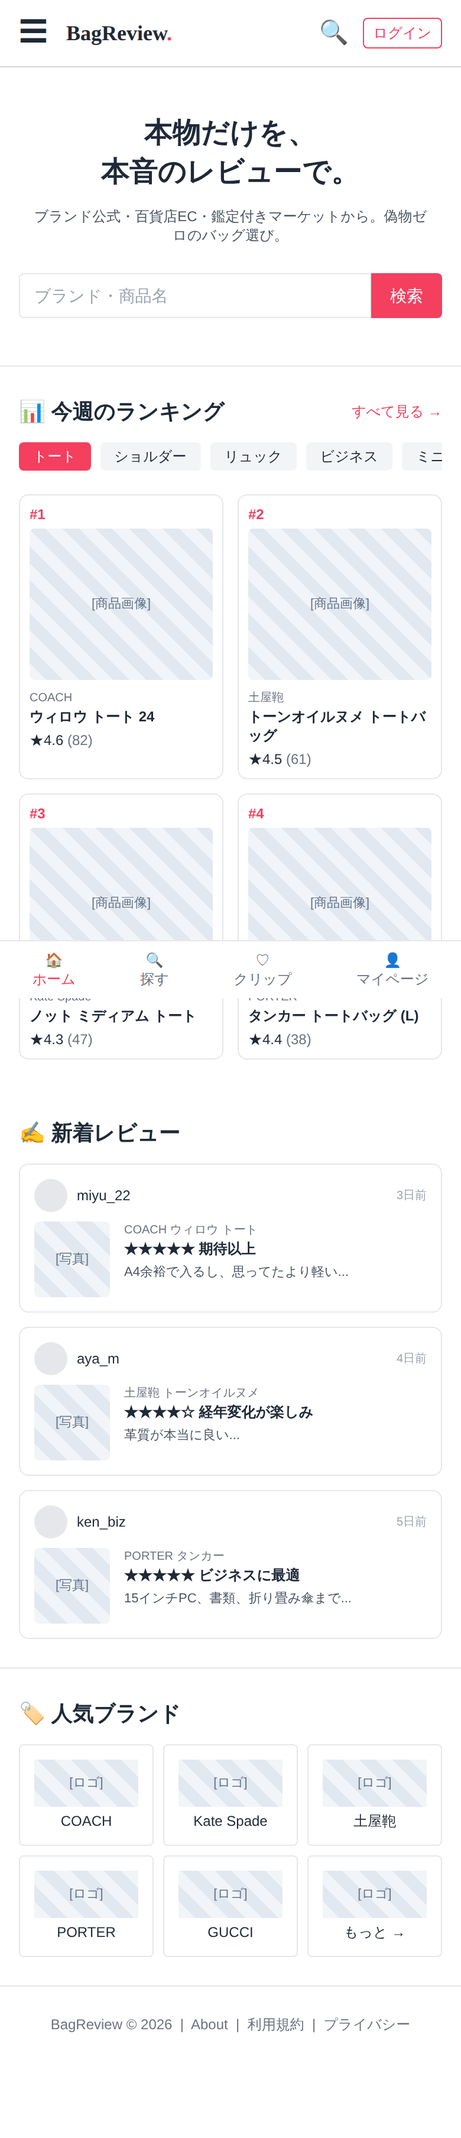
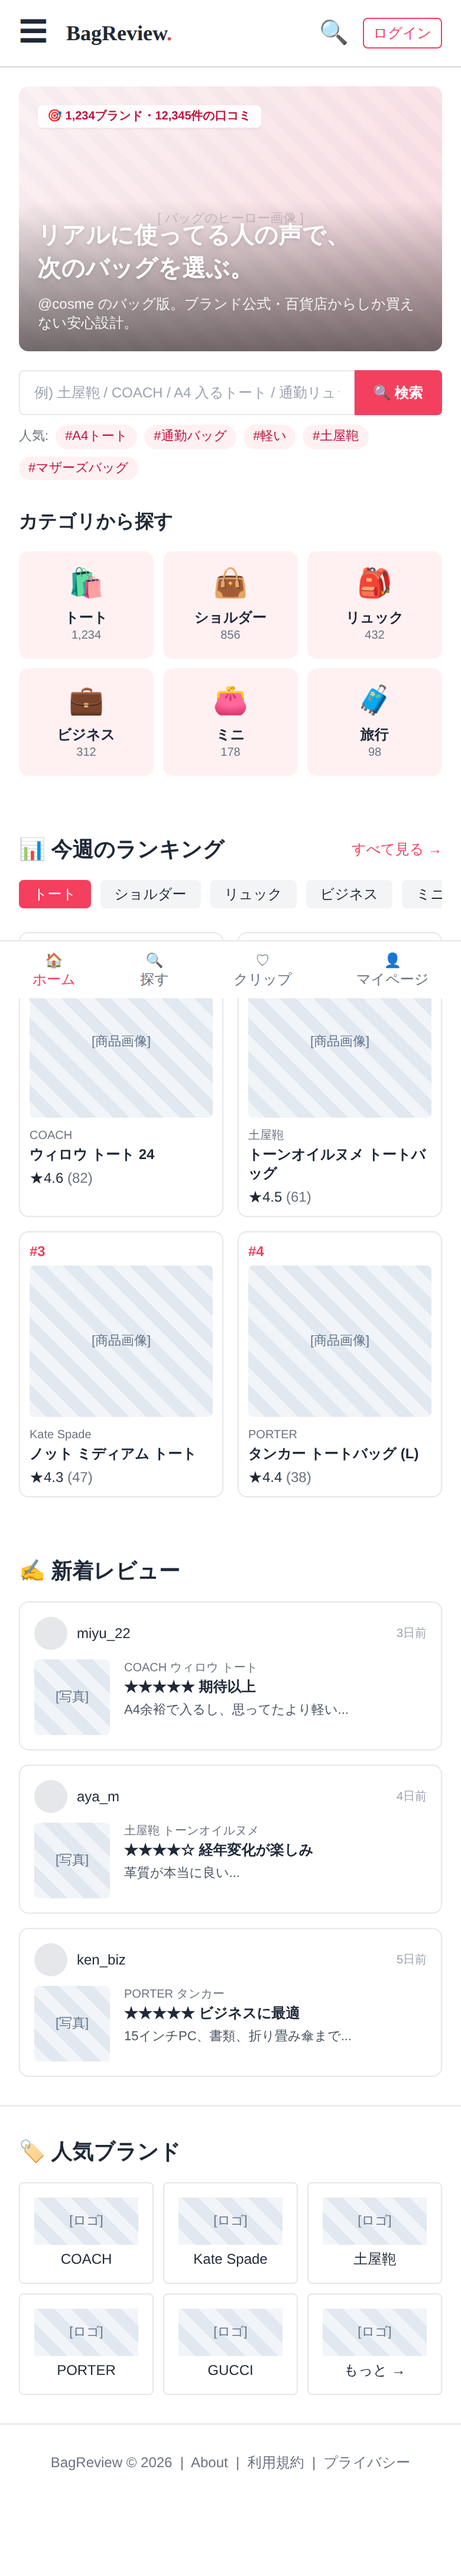
docs(wireframes): redesign TOP hero for clarity and approachability
- Replace marketing copy with social-proof number badge
- Hero banner uses gradient + placeholder for product imagery
- Search input now shows concrete examples as placeholder
- Add popular hashtag chips below search
- Add category tile grid with icons and counts as primary navigation

https://claude.ai/code/session_01DgfmKdj2TsGSuRHMTGx9DA

diff --git a/docs/wireframes/tailwind.css b/docs/wireframes/tailwind.css
@@ -1,1 +1,1 @@
-*,:after,:before{--tw-border-spacing-x:0;--tw-border-spacing-y:0;--tw-translate-x:0;--tw-translate-y:0;--tw-rotate:0;--tw-skew-x:0;--tw-skew-y:0;--tw-scale-x:1;--tw-scale-y:1;--tw-pan-x: ;--tw-pan-y: ;--tw-pinch-zoom: ;--tw-scroll-snap-strictness:proximity;--tw-gradient-from-position: ;--tw-gradient-via-position: ;--tw-gradient-to-position: ;--tw-ordinal: ;--tw-slashed-zero: ;--tw-numeric-figure: ;--tw-numeric-spacing: ;--tw-numeric-fraction: ;--tw-ring-inset: ;--tw-ring-offset-width:0px;--tw-ring-offset-color:#fff;--tw-ring-color:rgba(59,130,246,.5);--tw-ring-offset-shadow:0 0 #0000;--tw-ring-shadow:0 0 #0000;--tw-shadow:0 0 #0000;--tw-shadow-colored:0 0 #0000;--tw-blur: ;--tw-brightness: ;--tw-contrast: ;--tw-grayscale: ;--tw-hue-rotate: ;--tw-invert: ;--tw-saturate: ;--tw-sepia: ;--tw-drop-shadow: ;--tw-backdrop-blur: ;--tw-backdrop-brightness: ;--tw-backdrop-contrast: ;--tw-backdrop-grayscale: ;--tw-backdrop-hue-rotate: ;--tw-backdrop-invert: ;--tw-backdrop-opacity: ;--tw-backdrop-saturate: ;--tw-backdrop-sepia: ;--tw-contain-size: ;--tw-contain-layout: ;--tw-contain-paint: ;--tw-contain-style: }::backdrop{--tw-border-spacing-x:0;--tw-border-spacing-y:0;--tw-translate-x:0;--tw-translate-y:0;--tw-rotate:0;--tw-skew-x:0;--tw-skew-y:0;--tw-scale-x:1;--tw-scale-y:1;--tw-pan-x: ;--tw-pan-y: ;--tw-pinch-zoom: ;--tw-scroll-snap-strictness:proximity;--tw-gradient-from-position: ;--tw-gradient-via-position: ;--tw-gradient-to-position: ;--tw-ordinal: ;--tw-slashed-zero: ;--tw-numeric-figure: ;--tw-numeric-spacing: ;--tw-numeric-fraction: ;--tw-ring-inset: ;--tw-ring-offset-width:0px;--tw-ring-offset-color:#fff;--tw-ring-color:rgba(59,130,246,.5);--tw-ring-offset-shadow:0 0 #0000;--tw-ring-shadow:0 0 #0000;--tw-shadow:0 0 #0000;--tw-shadow-colored:0 0 #0000;--tw-blur: ;--tw-brightness: ;--tw-contrast: ;--tw-grayscale: ;--tw-hue-rotate: ;--tw-invert: ;--tw-saturate: ;--tw-sepia: ;--tw-drop-shadow: ;--tw-backdrop-blur: ;--tw-backdrop-brightness: ;--tw-backdrop-contrast: ;--tw-backdrop-grayscale: ;--tw-backdrop-hue-rotate: ;--tw-backdrop-invert: ;--tw-backdrop-opacity: ;--tw-backdrop-saturate: ;--tw-backdrop-sepia: ;--tw-contain-size: ;--tw-contain-layout: ;--tw-contain-paint: ;--tw-contain-style: }/*! tailwindcss v3.4.19 | MIT License | https://tailwindcss.com*/*,:after,:before{box-sizing:border-box;border:0 solid #e5e7eb}:after,:before{--tw-content:""}:host,html{line-height:1.5;-webkit-text-size-adjust:100%;-moz-tab-size:4;-o-tab-size:4;tab-size:4;font-family:ui-sans-serif,system-ui,sans-serif,Apple Color Emoji,Segoe UI Emoji,Segoe UI Symbol,Noto Color Emoji;font-feature-settings:normal;font-variation-settings:normal;-webkit-tap-highlight-color:transparent}body{margin:0;line-height:inherit}hr{height:0;color:inherit;border-top-width:1px}abbr:where([title]){-webkit-text-decoration:underline dotted;text-decoration:underline dotted}h1,h2,h3,h4,h5,h6{font-size:inherit;font-weight:inherit}a{color:inherit;text-decoration:inherit}b,strong{font-weight:bolder}code,kbd,pre,samp{font-family:ui-monospace,SFMono-Regular,Menlo,Monaco,Consolas,Liberation Mono,Courier New,monospace;font-feature-settings:normal;font-variation-settings:normal;font-size:1em}small{font-size:80%}sub,sup{font-size:75%;line-height:0;position:relative;vertical-align:baseline}sub{bottom:-.25em}sup{top:-.5em}table{text-indent:0;border-color:inherit;border-collapse:collapse}button,input,optgroup,select,textarea{font-family:inherit;font-feature-settings:inherit;font-variation-settings:inherit;font-size:100%;font-weight:inherit;line-height:inherit;letter-spacing:inherit;color:inherit;margin:0;padding:0}button,select{text-transform:none}button,input:where([type=button]),input:where([type=reset]),input:where([type=submit]){-webkit-appearance:button;background-color:transparent;background-image:none}:-moz-focusring{outline:auto}:-moz-ui-invalid{box-shadow:none}progress{vertical-align:baseline}::-webkit-inner-spin-button,::-webkit-outer-spin-button{height:auto}[type=search]{-webkit-appearance:textfield;outline-offset:-2px}::-webkit-search-decoration{-webkit-appearance:none}::-webkit-file-upload-button{-webkit-appearance:button;font:inherit}summary{display:list-item}blockquote,dd,dl,figure,h1,h2,h3,h4,h5,h6,hr,p,pre{margin:0}fieldset{margin:0}fieldset,legend{padding:0}menu,ol,ul{list-style:none;margin:0;padding:0}dialog{padding:0}textarea{resize:vertical}input::-moz-placeholder,textarea::-moz-placeholder{opacity:1;color:#9ca3af}input::placeholder,textarea::placeholder{opacity:1;color:#9ca3af}[role=button],button{cursor:pointer}:disabled{cursor:default}audio,canvas,embed,iframe,img,object,svg,video{display:block;vertical-align:middle}img,video{max-width:100%;height:auto}[hidden]:where(:not([hidden=until-found])){display:none}.fixed{position:fixed}.sticky{position:sticky}.inset-x-0{left:0;right:0}.bottom-0{bottom:0}.top-0{top:0}.top-20{top:5rem}.z-10{z-index:10}.z-20{z-index:20}.mx-auto{margin-left:auto;margin-right:auto}.mb-1{margin-bottom:.25rem}.mb-2{margin-bottom:.5rem}.mb-3{margin-bottom:.75rem}.mb-4{margin-bottom:1rem}.mb-6{margin-bottom:1.5rem}.ml-2{margin-left:.5rem}.ml-auto{margin-left:auto}.mr-1{margin-right:.25rem}.mr-2{margin-right:.5rem}.mt-1{margin-top:.25rem}.mt-2{margin-top:.5rem}.mt-3{margin-top:.75rem}.mt-4{margin-top:1rem}.mt-6{margin-top:1.5rem}.line-clamp-2{overflow:hidden;display:-webkit-box;-webkit-box-orient:vertical;-webkit-line-clamp:2}.block{display:block}.inline-block{display:inline-block}.flex{display:flex}.grid{display:grid}.hidden{display:none}.h-10{height:2.5rem}.h-14{height:3.5rem}.h-16{height:4rem}.h-32{height:8rem}.h-36{height:9rem}.h-64{height:16rem}.h-7{height:1.75rem}.h-8{height:2rem}.h-fit{height:-moz-fit-content;height:fit-content}.w-14{width:3.5rem}.w-16{width:4rem}.w-48{width:12rem}.w-60{width:15rem}.w-7{width:1.75rem}.w-8{width:2rem}.w-full{width:100%}.min-w-0{min-width:0}.max-w-2xl{max-width:42rem}.max-w-7xl{max-width:80rem}.max-w-xl{max-width:36rem}.flex-1{flex:1 1 0%}.flex-\[2\]{flex:2}.shrink-0{flex-shrink:0}.cursor-pointer{cursor:pointer}.list-none{list-style-type:none}.grid-cols-1{grid-template-columns:repeat(1,minmax(0,1fr))}.grid-cols-2{grid-template-columns:repeat(2,minmax(0,1fr))}.grid-cols-3{grid-template-columns:repeat(3,minmax(0,1fr))}.grid-cols-5{grid-template-columns:repeat(5,minmax(0,1fr))}.flex-col{flex-direction:column}.flex-wrap{flex-wrap:wrap}.items-start{align-items:flex-start}.items-center{align-items:center}.justify-center{justify-content:center}.justify-between{justify-content:space-between}.justify-around{justify-content:space-around}.gap-0{gap:0}.gap-1{gap:.25rem}.gap-1\.5{gap:.375rem}.gap-2{gap:.5rem}.gap-3{gap:.75rem}.gap-4{gap:1rem}.gap-6{gap:1.5rem}.gap-y-1{row-gap:.25rem}.space-y-1\.5>:not([hidden])~:not([hidden]){--tw-space-y-reverse:0;margin-top:calc(.375rem*(1 - var(--tw-space-y-reverse)));margin-bottom:calc(.375rem*var(--tw-space-y-reverse))}.space-y-2>:not([hidden])~:not([hidden]){--tw-space-y-reverse:0;margin-top:calc(.5rem*(1 - var(--tw-space-y-reverse)));margin-bottom:calc(.5rem*var(--tw-space-y-reverse))}.space-y-3>:not([hidden])~:not([hidden]){--tw-space-y-reverse:0;margin-top:calc(.75rem*(1 - var(--tw-space-y-reverse)));margin-bottom:calc(.75rem*var(--tw-space-y-reverse))}.overflow-x-auto{overflow-x:auto}.truncate{overflow:hidden;text-overflow:ellipsis}.truncate,.whitespace-nowrap{white-space:nowrap}.rounded{border-radius:.25rem}.rounded-full{border-radius:9999px}.rounded-lg{border-radius:.5rem}.rounded-l{border-top-left-radius:.25rem;border-bottom-left-radius:.25rem}.rounded-r{border-top-right-radius:.25rem;border-bottom-right-radius:.25rem}.border{border-width:1px}.border-2{border-width:2px}.border-b{border-bottom-width:1px}.border-t{border-top-width:1px}.border-t-2{border-top-width:2px}.border-dashed{border-style:dashed}.border-gray-200{--tw-border-opacity:1;border-color:rgb(229 231 235/var(--tw-border-opacity,1))}.border-gray-300{--tw-border-opacity:1;border-color:rgb(209 213 219/var(--tw-border-opacity,1))}.border-rose-500{--tw-border-opacity:1;border-color:rgb(244 63 94/var(--tw-border-opacity,1))}.bg-blue-100{--tw-bg-opacity:1;background-color:rgb(219 234 254/var(--tw-bg-opacity,1))}.bg-gray-100{--tw-bg-opacity:1;background-color:rgb(243 244 246/var(--tw-bg-opacity,1))}.bg-gray-200{--tw-bg-opacity:1;background-color:rgb(229 231 235/var(--tw-bg-opacity,1))}.bg-gray-50{--tw-bg-opacity:1;background-color:rgb(249 250 251/var(--tw-bg-opacity,1))}.bg-green-100{--tw-bg-opacity:1;background-color:rgb(220 252 231/var(--tw-bg-opacity,1))}.bg-purple-100{--tw-bg-opacity:1;background-color:rgb(243 232 255/var(--tw-bg-opacity,1))}.bg-rose-100{--tw-bg-opacity:1;background-color:rgb(255 228 230/var(--tw-bg-opacity,1))}.bg-rose-50{--tw-bg-opacity:1;background-color:rgb(255 241 242/var(--tw-bg-opacity,1))}.bg-rose-500{--tw-bg-opacity:1;background-color:rgb(244 63 94/var(--tw-bg-opacity,1))}.bg-white{--tw-bg-opacity:1;background-color:rgb(255 255 255/var(--tw-bg-opacity,1))}.p-2{padding:.5rem}.p-3{padding:.75rem}.p-4{padding:1rem}.px-1\.5{padding-left:.375rem;padding-right:.375rem}.px-2{padding-left:.5rem;padding-right:.5rem}.px-3{padding-left:.75rem;padding-right:.75rem}.px-4{padding-left:1rem;padding-right:1rem}.px-6{padding-left:1.5rem;padding-right:1.5rem}.py-0\.5{padding-top:.125rem;padding-bottom:.125rem}.py-1{padding-top:.25rem;padding-bottom:.25rem}.py-1\.5{padding-top:.375rem;padding-bottom:.375rem}.py-10{padding-top:2.5rem;padding-bottom:2.5rem}.py-2{padding-top:.5rem;padding-bottom:.5rem}.py-2\.5{padding-top:.625rem;padding-bottom:.625rem}.py-3{padding-top:.75rem;padding-bottom:.75rem}.py-4{padding-top:1rem;padding-bottom:1rem}.py-6{padding-top:1.5rem;padding-bottom:1.5rem}.pb-1{padding-bottom:.25rem}.pb-10{padding-bottom:2.5rem}.pb-3{padding-bottom:.75rem}.pb-4{padding-bottom:1rem}.pb-6{padding-bottom:1.5rem}.pt-1{padding-top:.25rem}.text-center{text-align:center}.text-right{text-align:right}.font-serif{font-family:ui-serif,Georgia,Cambria,Times New Roman,Times,serif}.text-2xl{font-size:1.5rem;line-height:2rem}.text-\[10px\]{font-size:10px}.text-\[11px\]{font-size:11px}.text-\[9px\]{font-size:9px}.text-base{font-size:1rem;line-height:1.5rem}.text-lg{font-size:1.125rem;line-height:1.75rem}.text-sm{font-size:.875rem;line-height:1.25rem}.text-xl{font-size:1.25rem;line-height:1.75rem}.text-xs{font-size:.75rem;line-height:1rem}.font-bold{font-weight:700}.font-normal{font-weight:400}.leading-snug{line-height:1.375}.text-amber-400{--tw-text-opacity:1;color:rgb(251 191 36/var(--tw-text-opacity,1))}.text-blue-800{--tw-text-opacity:1;color:rgb(30 64 175/var(--tw-text-opacity,1))}.text-gray-400{--tw-text-opacity:1;color:rgb(156 163 175/var(--tw-text-opacity,1))}.text-gray-500{--tw-text-opacity:1;color:rgb(107 114 128/var(--tw-text-opacity,1))}.text-gray-600{--tw-text-opacity:1;color:rgb(75 85 99/var(--tw-text-opacity,1))}.text-gray-700{--tw-text-opacity:1;color:rgb(55 65 81/var(--tw-text-opacity,1))}.text-gray-800{--tw-text-opacity:1;color:rgb(31 41 55/var(--tw-text-opacity,1))}.text-green-800{--tw-text-opacity:1;color:rgb(22 101 52/var(--tw-text-opacity,1))}.text-purple-800{--tw-text-opacity:1;color:rgb(107 33 168/var(--tw-text-opacity,1))}.text-rose-500{--tw-text-opacity:1;color:rgb(244 63 94/var(--tw-text-opacity,1))}.text-rose-600{--tw-text-opacity:1;color:rgb(225 29 72/var(--tw-text-opacity,1))}.text-rose-700{--tw-text-opacity:1;color:rgb(190 18 60/var(--tw-text-opacity,1))}.text-white{--tw-text-opacity:1;color:rgb(255 255 255/var(--tw-text-opacity,1))}.shadow-lg{--tw-shadow:0 10px 15px -3px rgba(0,0,0,.1),0 4px 6px -4px rgba(0,0,0,.1);--tw-shadow-colored:0 10px 15px -3px var(--tw-shadow-color),0 4px 6px -4px var(--tw-shadow-color);box-shadow:var(--tw-ring-offset-shadow,0 0 #0000),var(--tw-ring-shadow,0 0 #0000),var(--tw-shadow)}.hover\:bg-rose-50:hover{--tw-bg-opacity:1;background-color:rgb(255 241 242/var(--tw-bg-opacity,1))}.hover\:bg-rose-600:hover{--tw-bg-opacity:1;background-color:rgb(225 29 72/var(--tw-bg-opacity,1))}.hover\:underline:hover{text-decoration-line:underline}.hover\:shadow:hover{--tw-shadow:0 1px 3px 0 rgba(0,0,0,.1),0 1px 2px -1px rgba(0,0,0,.1);--tw-shadow-colored:0 1px 3px 0 var(--tw-shadow-color),0 1px 2px -1px var(--tw-shadow-color);box-shadow:var(--tw-ring-offset-shadow,0 0 #0000),var(--tw-ring-shadow,0 0 #0000),var(--tw-shadow)}@media (min-width:640px){.sm\:col-span-2{grid-column:span 2/span 2}.sm\:grid-cols-2{grid-template-columns:repeat(2,minmax(0,1fr))}}@media (min-width:768px){.md\:col-span-4{grid-column:span 4/span 4}.md\:col-span-8{grid-column:span 8/span 8}.md\:mb-2{margin-bottom:.5rem}.md\:mb-4{margin-bottom:1rem}.md\:ml-3{margin-left:.75rem}.md\:ml-auto{margin-left:auto}.md\:mt-4{margin-top:1rem}.md\:mt-6{margin-top:1.5rem}.md\:mt-8{margin-top:2rem}.md\:block{display:block}.md\:inline{display:inline}.md\:flex{display:flex}.md\:hidden{display:none}.md\:h-10{height:2.5rem}.md\:h-12{height:3rem}.md\:h-16{height:4rem}.md\:h-20{height:5rem}.md\:h-24{height:6rem}.md\:h-40{height:10rem}.md\:h-44{height:11rem}.md\:h-8{height:2rem}.md\:h-96{height:24rem}.md\:w-10{width:2.5rem}.md\:w-16{width:4rem}.md\:w-20{width:5rem}.md\:w-8{width:2rem}.md\:grid-cols-12{grid-template-columns:repeat(12,minmax(0,1fr))}.md\:grid-cols-3{grid-template-columns:repeat(3,minmax(0,1fr))}.md\:grid-cols-4{grid-template-columns:repeat(4,minmax(0,1fr))}.md\:grid-cols-6{grid-template-columns:repeat(6,minmax(0,1fr))}.md\:gap-2{gap:.5rem}.md\:gap-3{gap:.75rem}.md\:gap-4{gap:1rem}.md\:gap-8{gap:2rem}.md\:space-y-4>:not([hidden])~:not([hidden]){--tw-space-y-reverse:0;margin-top:calc(1rem*(1 - var(--tw-space-y-reverse)));margin-bottom:calc(1rem*var(--tw-space-y-reverse))}.md\:p-3{padding:.75rem}.md\:p-4{padding:1rem}.md\:p-5{padding:1.25rem}.md\:p-6{padding:1.5rem}.md\:px-3{padding-left:.75rem;padding-right:.75rem}.md\:px-4{padding-left:1rem;padding-right:1rem}.md\:px-6{padding-left:1.5rem;padding-right:1.5rem}.md\:py-1\.5{padding-top:.375rem;padding-bottom:.375rem}.md\:py-10{padding-top:2.5rem;padding-bottom:2.5rem}.md\:py-16{padding-top:4rem;padding-bottom:4rem}.md\:py-3{padding-top:.75rem;padding-bottom:.75rem}.md\:py-4{padding-top:1rem;padding-bottom:1rem}.md\:py-6{padding-top:1.5rem;padding-bottom:1.5rem}.md\:py-8{padding-top:2rem;padding-bottom:2rem}.md\:pb-10{padding-bottom:2.5rem}.md\:pb-4{padding-bottom:1rem}.md\:pb-6{padding-bottom:1.5rem}.md\:text-left{text-align:left}.md\:text-2xl{font-size:1.5rem;line-height:2rem}.md\:text-3xl{font-size:1.875rem;line-height:2.25rem}.md\:text-4xl{font-size:2.25rem;line-height:2.5rem}.md\:text-\[10px\]{font-size:10px}.md\:text-base{font-size:1rem;line-height:1.5rem}.md\:text-lg{font-size:1.125rem;line-height:1.75rem}.md\:text-sm{font-size:.875rem;line-height:1.25rem}.md\:text-xl{font-size:1.25rem;line-height:1.75rem}.md\:text-xs{font-size:.75rem;line-height:1rem}}@media (min-width:1024px){.lg\:w-64{width:16rem}}
+*,:after,:before{--tw-border-spacing-x:0;--tw-border-spacing-y:0;--tw-translate-x:0;--tw-translate-y:0;--tw-rotate:0;--tw-skew-x:0;--tw-skew-y:0;--tw-scale-x:1;--tw-scale-y:1;--tw-pan-x: ;--tw-pan-y: ;--tw-pinch-zoom: ;--tw-scroll-snap-strictness:proximity;--tw-gradient-from-position: ;--tw-gradient-via-position: ;--tw-gradient-to-position: ;--tw-ordinal: ;--tw-slashed-zero: ;--tw-numeric-figure: ;--tw-numeric-spacing: ;--tw-numeric-fraction: ;--tw-ring-inset: ;--tw-ring-offset-width:0px;--tw-ring-offset-color:#fff;--tw-ring-color:rgba(59,130,246,.5);--tw-ring-offset-shadow:0 0 #0000;--tw-ring-shadow:0 0 #0000;--tw-shadow:0 0 #0000;--tw-shadow-colored:0 0 #0000;--tw-blur: ;--tw-brightness: ;--tw-contrast: ;--tw-grayscale: ;--tw-hue-rotate: ;--tw-invert: ;--tw-saturate: ;--tw-sepia: ;--tw-drop-shadow: ;--tw-backdrop-blur: ;--tw-backdrop-brightness: ;--tw-backdrop-contrast: ;--tw-backdrop-grayscale: ;--tw-backdrop-hue-rotate: ;--tw-backdrop-invert: ;--tw-backdrop-opacity: ;--tw-backdrop-saturate: ;--tw-backdrop-sepia: ;--tw-contain-size: ;--tw-contain-layout: ;--tw-contain-paint: ;--tw-contain-style: }::backdrop{--tw-border-spacing-x:0;--tw-border-spacing-y:0;--tw-translate-x:0;--tw-translate-y:0;--tw-rotate:0;--tw-skew-x:0;--tw-skew-y:0;--tw-scale-x:1;--tw-scale-y:1;--tw-pan-x: ;--tw-pan-y: ;--tw-pinch-zoom: ;--tw-scroll-snap-strictness:proximity;--tw-gradient-from-position: ;--tw-gradient-via-position: ;--tw-gradient-to-position: ;--tw-ordinal: ;--tw-slashed-zero: ;--tw-numeric-figure: ;--tw-numeric-spacing: ;--tw-numeric-fraction: ;--tw-ring-inset: ;--tw-ring-offset-width:0px;--tw-ring-offset-color:#fff;--tw-ring-color:rgba(59,130,246,.5);--tw-ring-offset-shadow:0 0 #0000;--tw-ring-shadow:0 0 #0000;--tw-shadow:0 0 #0000;--tw-shadow-colored:0 0 #0000;--tw-blur: ;--tw-brightness: ;--tw-contrast: ;--tw-grayscale: ;--tw-hue-rotate: ;--tw-invert: ;--tw-saturate: ;--tw-sepia: ;--tw-drop-shadow: ;--tw-backdrop-blur: ;--tw-backdrop-brightness: ;--tw-backdrop-contrast: ;--tw-backdrop-grayscale: ;--tw-backdrop-hue-rotate: ;--tw-backdrop-invert: ;--tw-backdrop-opacity: ;--tw-backdrop-saturate: ;--tw-backdrop-sepia: ;--tw-contain-size: ;--tw-contain-layout: ;--tw-contain-paint: ;--tw-contain-style: }/*! tailwindcss v3.4.19 | MIT License | https://tailwindcss.com*/*,:after,:before{box-sizing:border-box;border:0 solid #e5e7eb}:after,:before{--tw-content:""}:host,html{line-height:1.5;-webkit-text-size-adjust:100%;-moz-tab-size:4;-o-tab-size:4;tab-size:4;font-family:ui-sans-serif,system-ui,sans-serif,Apple Color Emoji,Segoe UI Emoji,Segoe UI Symbol,Noto Color Emoji;font-feature-settings:normal;font-variation-settings:normal;-webkit-tap-highlight-color:transparent}body{margin:0;line-height:inherit}hr{height:0;color:inherit;border-top-width:1px}abbr:where([title]){-webkit-text-decoration:underline dotted;text-decoration:underline dotted}h1,h2,h3,h4,h5,h6{font-size:inherit;font-weight:inherit}a{color:inherit;text-decoration:inherit}b,strong{font-weight:bolder}code,kbd,pre,samp{font-family:ui-monospace,SFMono-Regular,Menlo,Monaco,Consolas,Liberation Mono,Courier New,monospace;font-feature-settings:normal;font-variation-settings:normal;font-size:1em}small{font-size:80%}sub,sup{font-size:75%;line-height:0;position:relative;vertical-align:baseline}sub{bottom:-.25em}sup{top:-.5em}table{text-indent:0;border-color:inherit;border-collapse:collapse}button,input,optgroup,select,textarea{font-family:inherit;font-feature-settings:inherit;font-variation-settings:inherit;font-size:100%;font-weight:inherit;line-height:inherit;letter-spacing:inherit;color:inherit;margin:0;padding:0}button,select{text-transform:none}button,input:where([type=button]),input:where([type=reset]),input:where([type=submit]){-webkit-appearance:button;background-color:transparent;background-image:none}:-moz-focusring{outline:auto}:-moz-ui-invalid{box-shadow:none}progress{vertical-align:baseline}::-webkit-inner-spin-button,::-webkit-outer-spin-button{height:auto}[type=search]{-webkit-appearance:textfield;outline-offset:-2px}::-webkit-search-decoration{-webkit-appearance:none}::-webkit-file-upload-button{-webkit-appearance:button;font:inherit}summary{display:list-item}blockquote,dd,dl,figure,h1,h2,h3,h4,h5,h6,hr,p,pre{margin:0}fieldset{margin:0}fieldset,legend{padding:0}menu,ol,ul{list-style:none;margin:0;padding:0}dialog{padding:0}textarea{resize:vertical}input::-moz-placeholder,textarea::-moz-placeholder{opacity:1;color:#9ca3af}input::placeholder,textarea::placeholder{opacity:1;color:#9ca3af}[role=button],button{cursor:pointer}:disabled{cursor:default}audio,canvas,embed,iframe,img,object,svg,video{display:block;vertical-align:middle}img,video{max-width:100%;height:auto}[hidden]:where(:not([hidden=until-found])){display:none}.fixed{position:fixed}.absolute{position:absolute}.relative{position:relative}.sticky{position:sticky}.inset-0{inset:0}.inset-x-0{left:0;right:0}.bottom-0{bottom:0}.left-4{left:1rem}.top-0{top:0}.top-20{top:5rem}.top-3{top:.75rem}.z-10{z-index:10}.z-20{z-index:20}.mx-auto{margin-left:auto;margin-right:auto}.mb-1{margin-bottom:.25rem}.mb-2{margin-bottom:.5rem}.mb-3{margin-bottom:.75rem}.mb-4{margin-bottom:1rem}.ml-2{margin-left:.5rem}.ml-auto{margin-left:auto}.mr-1{margin-right:.25rem}.mr-2{margin-right:.5rem}.mt-1{margin-top:.25rem}.mt-2{margin-top:.5rem}.mt-3{margin-top:.75rem}.mt-4{margin-top:1rem}.mt-6{margin-top:1.5rem}.line-clamp-2{overflow:hidden;display:-webkit-box;-webkit-box-orient:vertical;-webkit-line-clamp:2}.block{display:block}.inline-block{display:inline-block}.flex{display:flex}.grid{display:grid}.hidden{display:none}.h-10{height:2.5rem}.h-14{height:3.5rem}.h-16{height:4rem}.h-32{height:8rem}.h-36{height:9rem}.h-56{height:14rem}.h-64{height:16rem}.h-7{height:1.75rem}.h-8{height:2rem}.h-fit{height:-moz-fit-content;height:fit-content}.w-14{width:3.5rem}.w-16{width:4rem}.w-48{width:12rem}.w-60{width:15rem}.w-7{width:1.75rem}.w-8{width:2rem}.w-full{width:100%}.min-w-0{min-width:0}.max-w-2xl{max-width:42rem}.max-w-7xl{max-width:80rem}.flex-1{flex:1 1 0%}.flex-\[2\]{flex:2}.shrink-0{flex-shrink:0}.cursor-pointer{cursor:pointer}.list-none{list-style-type:none}.grid-cols-1{grid-template-columns:repeat(1,minmax(0,1fr))}.grid-cols-2{grid-template-columns:repeat(2,minmax(0,1fr))}.grid-cols-3{grid-template-columns:repeat(3,minmax(0,1fr))}.grid-cols-5{grid-template-columns:repeat(5,minmax(0,1fr))}.flex-col{flex-direction:column}.flex-wrap{flex-wrap:wrap}.items-start{align-items:flex-start}.items-end{align-items:flex-end}.items-center{align-items:center}.justify-center{justify-content:center}.justify-between{justify-content:space-between}.justify-around{justify-content:space-around}.gap-1{gap:.25rem}.gap-1\.5{gap:.375rem}.gap-2{gap:.5rem}.gap-3{gap:.75rem}.gap-4{gap:1rem}.gap-6{gap:1.5rem}.gap-y-1{row-gap:.25rem}.space-y-1\.5>:not([hidden])~:not([hidden]){--tw-space-y-reverse:0;margin-top:calc(.375rem*(1 - var(--tw-space-y-reverse)));margin-bottom:calc(.375rem*var(--tw-space-y-reverse))}.space-y-2>:not([hidden])~:not([hidden]){--tw-space-y-reverse:0;margin-top:calc(.5rem*(1 - var(--tw-space-y-reverse)));margin-bottom:calc(.5rem*var(--tw-space-y-reverse))}.space-y-3>:not([hidden])~:not([hidden]){--tw-space-y-reverse:0;margin-top:calc(.75rem*(1 - var(--tw-space-y-reverse)));margin-bottom:calc(.75rem*var(--tw-space-y-reverse))}.overflow-hidden{overflow:hidden}.overflow-x-auto{overflow-x:auto}.truncate{overflow:hidden;text-overflow:ellipsis}.truncate,.whitespace-nowrap{white-space:nowrap}.rounded{border-radius:.25rem}.rounded-full{border-radius:9999px}.rounded-lg{border-radius:.5rem}.rounded-l{border-top-left-radius:.25rem;border-bottom-left-radius:.25rem}.rounded-r{border-top-right-radius:.25rem;border-bottom-right-radius:.25rem}.border{border-width:1px}.border-2{border-width:2px}.border-b{border-bottom-width:1px}.border-t{border-top-width:1px}.border-t-2{border-top-width:2px}.border-dashed{border-style:dashed}.border-gray-200{--tw-border-opacity:1;border-color:rgb(229 231 235/var(--tw-border-opacity,1))}.border-gray-300{--tw-border-opacity:1;border-color:rgb(209 213 219/var(--tw-border-opacity,1))}.border-rose-500{--tw-border-opacity:1;border-color:rgb(244 63 94/var(--tw-border-opacity,1))}.bg-blue-100{--tw-bg-opacity:1;background-color:rgb(219 234 254/var(--tw-bg-opacity,1))}.bg-gray-100{--tw-bg-opacity:1;background-color:rgb(243 244 246/var(--tw-bg-opacity,1))}.bg-gray-200{--tw-bg-opacity:1;background-color:rgb(229 231 235/var(--tw-bg-opacity,1))}.bg-gray-50{--tw-bg-opacity:1;background-color:rgb(249 250 251/var(--tw-bg-opacity,1))}.bg-green-100{--tw-bg-opacity:1;background-color:rgb(220 252 231/var(--tw-bg-opacity,1))}.bg-purple-100{--tw-bg-opacity:1;background-color:rgb(243 232 255/var(--tw-bg-opacity,1))}.bg-rose-100{--tw-bg-opacity:1;background-color:rgb(255 228 230/var(--tw-bg-opacity,1))}.bg-rose-50{--tw-bg-opacity:1;background-color:rgb(255 241 242/var(--tw-bg-opacity,1))}.bg-rose-500{--tw-bg-opacity:1;background-color:rgb(244 63 94/var(--tw-bg-opacity,1))}.bg-white{--tw-bg-opacity:1;background-color:rgb(255 255 255/var(--tw-bg-opacity,1))}.bg-white\/90{background-color:hsla(0,0%,100%,.9)}.p-2{padding:.5rem}.p-3{padding:.75rem}.p-4{padding:1rem}.px-1\.5{padding-left:.375rem;padding-right:.375rem}.px-2{padding-left:.5rem;padding-right:.5rem}.px-3{padding-left:.75rem;padding-right:.75rem}.px-4{padding-left:1rem;padding-right:1rem}.px-6{padding-left:1.5rem;padding-right:1.5rem}.py-0\.5{padding-top:.125rem;padding-bottom:.125rem}.py-1{padding-top:.25rem;padding-bottom:.25rem}.py-1\.5{padding-top:.375rem;padding-bottom:.375rem}.py-2{padding-top:.5rem;padding-bottom:.5rem}.py-2\.5{padding-top:.625rem;padding-bottom:.625rem}.py-3{padding-top:.75rem;padding-bottom:.75rem}.py-4{padding-top:1rem;padding-bottom:1rem}.py-6{padding-top:1.5rem;padding-bottom:1.5rem}.pb-1{padding-bottom:.25rem}.pb-10{padding-bottom:2.5rem}.pb-3{padding-bottom:.75rem}.pb-4{padding-bottom:1rem}.pb-6{padding-bottom:1.5rem}.pt-1{padding-top:.25rem}.pt-4{padding-top:1rem}.text-center{text-align:center}.text-right{text-align:right}.font-serif{font-family:ui-serif,Georgia,Cambria,Times New Roman,Times,serif}.text-2xl{font-size:1.5rem;line-height:2rem}.text-\[10px\]{font-size:10px}.text-\[11px\]{font-size:11px}.text-\[9px\]{font-size:9px}.text-base{font-size:1rem;line-height:1.5rem}.text-lg{font-size:1.125rem;line-height:1.75rem}.text-sm{font-size:.875rem;line-height:1.25rem}.text-xl{font-size:1.25rem;line-height:1.75rem}.text-xs{font-size:.75rem;line-height:1rem}.font-bold{font-weight:700}.font-normal{font-weight:400}.leading-snug{line-height:1.375}.text-amber-400{--tw-text-opacity:1;color:rgb(251 191 36/var(--tw-text-opacity,1))}.text-blue-800{--tw-text-opacity:1;color:rgb(30 64 175/var(--tw-text-opacity,1))}.text-gray-400{--tw-text-opacity:1;color:rgb(156 163 175/var(--tw-text-opacity,1))}.text-gray-500{--tw-text-opacity:1;color:rgb(107 114 128/var(--tw-text-opacity,1))}.text-gray-600{--tw-text-opacity:1;color:rgb(75 85 99/var(--tw-text-opacity,1))}.text-gray-700{--tw-text-opacity:1;color:rgb(55 65 81/var(--tw-text-opacity,1))}.text-gray-800{--tw-text-opacity:1;color:rgb(31 41 55/var(--tw-text-opacity,1))}.text-green-800{--tw-text-opacity:1;color:rgb(22 101 52/var(--tw-text-opacity,1))}.text-purple-800{--tw-text-opacity:1;color:rgb(107 33 168/var(--tw-text-opacity,1))}.text-rose-500{--tw-text-opacity:1;color:rgb(244 63 94/var(--tw-text-opacity,1))}.text-rose-600{--tw-text-opacity:1;color:rgb(225 29 72/var(--tw-text-opacity,1))}.text-rose-700{--tw-text-opacity:1;color:rgb(190 18 60/var(--tw-text-opacity,1))}.text-white{--tw-text-opacity:1;color:rgb(255 255 255/var(--tw-text-opacity,1))}.opacity-30{opacity:.3}.opacity-90{opacity:.9}.shadow-lg{--tw-shadow:0 10px 15px -3px rgba(0,0,0,.1),0 4px 6px -4px rgba(0,0,0,.1);--tw-shadow-colored:0 10px 15px -3px var(--tw-shadow-color),0 4px 6px -4px var(--tw-shadow-color)}.shadow-lg,.shadow-sm{box-shadow:var(--tw-ring-offset-shadow,0 0 #0000),var(--tw-ring-shadow,0 0 #0000),var(--tw-shadow)}.shadow-sm{--tw-shadow:0 1px 2px 0 rgba(0,0,0,.05);--tw-shadow-colored:0 1px 2px 0 var(--tw-shadow-color)}.drop-shadow{--tw-drop-shadow:drop-shadow(0 1px 2px rgba(0,0,0,.1)) drop-shadow(0 1px 1px rgba(0,0,0,.06));filter:var(--tw-blur) var(--tw-brightness) var(--tw-contrast) var(--tw-grayscale) var(--tw-hue-rotate) var(--tw-invert) var(--tw-saturate) var(--tw-sepia) var(--tw-drop-shadow)}.hover\:bg-rose-100:hover{--tw-bg-opacity:1;background-color:rgb(255 228 230/var(--tw-bg-opacity,1))}.hover\:bg-rose-50:hover{--tw-bg-opacity:1;background-color:rgb(255 241 242/var(--tw-bg-opacity,1))}.hover\:bg-rose-600:hover{--tw-bg-opacity:1;background-color:rgb(225 29 72/var(--tw-bg-opacity,1))}.hover\:underline:hover{text-decoration-line:underline}.hover\:shadow:hover{--tw-shadow:0 1px 3px 0 rgba(0,0,0,.1),0 1px 2px -1px rgba(0,0,0,.1);--tw-shadow-colored:0 1px 3px 0 var(--tw-shadow-color),0 1px 2px -1px var(--tw-shadow-color);box-shadow:var(--tw-ring-offset-shadow,0 0 #0000),var(--tw-ring-shadow,0 0 #0000),var(--tw-shadow)}@media (min-width:640px){.sm\:col-span-2{grid-column:span 2/span 2}.sm\:grid-cols-2{grid-template-columns:repeat(2,minmax(0,1fr))}}@media (min-width:768px){.md\:left-8{left:2rem}.md\:top-6{top:1.5rem}.md\:col-span-4{grid-column:span 4/span 4}.md\:col-span-8{grid-column:span 8/span 8}.md\:mb-2{margin-bottom:.5rem}.md\:mb-4{margin-bottom:1rem}.md\:ml-3{margin-left:.75rem}.md\:ml-auto{margin-left:auto}.md\:mt-3{margin-top:.75rem}.md\:mt-4{margin-top:1rem}.md\:mt-6{margin-top:1.5rem}.md\:mt-8{margin-top:2rem}.md\:block{display:block}.md\:inline{display:inline}.md\:flex{display:flex}.md\:hidden{display:none}.md\:h-10{height:2.5rem}.md\:h-12{height:3rem}.md\:h-16{height:4rem}.md\:h-20{height:5rem}.md\:h-24{height:6rem}.md\:h-40{height:10rem}.md\:h-44{height:11rem}.md\:h-8{height:2rem}.md\:h-80{height:20rem}.md\:h-96{height:24rem}.md\:w-10{width:2.5rem}.md\:w-16{width:4rem}.md\:w-20{width:5rem}.md\:w-8{width:2rem}.md\:grid-cols-12{grid-template-columns:repeat(12,minmax(0,1fr))}.md\:grid-cols-3{grid-template-columns:repeat(3,minmax(0,1fr))}.md\:grid-cols-4{grid-template-columns:repeat(4,minmax(0,1fr))}.md\:grid-cols-6{grid-template-columns:repeat(6,minmax(0,1fr))}.md\:gap-2{gap:.5rem}.md\:gap-3{gap:.75rem}.md\:gap-4{gap:1rem}.md\:gap-8{gap:2rem}.md\:space-y-4>:not([hidden])~:not([hidden]){--tw-space-y-reverse:0;margin-top:calc(1rem*(1 - var(--tw-space-y-reverse)));margin-bottom:calc(1rem*var(--tw-space-y-reverse))}.md\:p-3{padding:.75rem}.md\:p-4{padding:1rem}.md\:p-5{padding:1.25rem}.md\:p-6{padding:1.5rem}.md\:p-8{padding:2rem}.md\:px-3{padding-left:.75rem;padding-right:.75rem}.md\:px-4{padding-left:1rem;padding-right:1rem}.md\:px-6{padding-left:1.5rem;padding-right:1.5rem}.md\:py-1\.5{padding-top:.375rem;padding-bottom:.375rem}.md\:py-10{padding-top:2.5rem;padding-bottom:2.5rem}.md\:py-3{padding-top:.75rem;padding-bottom:.75rem}.md\:py-4{padding-top:1rem;padding-bottom:1rem}.md\:py-6{padding-top:1.5rem;padding-bottom:1.5rem}.md\:py-8{padding-top:2rem;padding-bottom:2rem}.md\:pb-10{padding-bottom:2.5rem}.md\:pb-4{padding-bottom:1rem}.md\:pb-6{padding-bottom:1.5rem}.md\:pt-6{padding-top:1.5rem}.md\:text-left{text-align:left}.md\:text-2xl{font-size:1.5rem;line-height:2rem}.md\:text-3xl{font-size:1.875rem;line-height:2.25rem}.md\:text-\[10px\]{font-size:10px}.md\:text-base{font-size:1rem;line-height:1.5rem}.md\:text-lg{font-size:1.125rem;line-height:1.75rem}.md\:text-sm{font-size:.875rem;line-height:1.25rem}.md\:text-xl{font-size:1.25rem;line-height:1.75rem}.md\:text-xs{font-size:.75rem;line-height:1rem}}@media (min-width:1024px){.lg\:w-64{width:16rem}}

diff --git a/docs/wireframes/index.html b/docs/wireframes/index.html
@@ -33,13 +33,72 @@
     </div>
   </header>
 
-  <!-- ヒーロー -->
-  <section class="px-4 md:px-6 py-10 md:py-16 text-center border-b border-gray-200">
-    <h1 class="text-2xl md:text-4xl font-serif font-bold mb-3 leading-snug">本物だけを、<br class="md:hidden">本音のレビューで。</h1>
-    <p class="text-xs md:text-base text-gray-600 mb-6 px-2">ブランド公式・百貨店EC・鑑定付きマーケットから。偽物ゼロのバッグ選び。</p>
-    <div class="max-w-xl mx-auto flex gap-0">
-      <input type="text" placeholder="ブランド・商品名" class="border rounded-l px-3 md:px-4 py-2 md:py-3 flex-1 bg-white text-sm">
-      <button class="bg-rose-500 text-white px-4 md:px-6 py-2 md:py-3 rounded-r text-sm">検索</button>
+  <!-- ヒーローバナー -->
+  <section class="px-4 md:px-6 pt-4 md:pt-6">
+    <div class="relative h-56 md:h-80 rounded-lg overflow-hidden flex items-end" style="background: linear-gradient(135deg, #FFF1F2 0%, #FFE4E6 40%, #FECDD3 100%);">
+      <div class="ph absolute inset-0 opacity-30">[ バッグのヒーロー画像 ]</div>
+      <div class="absolute top-3 md:top-6 left-4 md:left-8">
+        <span class="text-[10px] md:text-xs bg-white/90 text-rose-700 font-bold px-2 py-1 rounded shadow-sm">🎯 1,234ブランド・12,345件の口コミ</span>
+      </div>
+      <div class="relative p-4 md:p-8 text-white w-full" style="background: linear-gradient(to top, rgba(0,0,0,0.55), transparent);">
+        <div class="text-xl md:text-3xl font-bold leading-snug drop-shadow">
+          リアルに使ってる人の声で、<br>次のバッグを選ぶ。
+        </div>
+        <div class="text-xs md:text-sm mt-2 opacity-90">@cosme のバッグ版。ブランド公式・百貨店からしか買えない安心設計。</div>
+      </div>
+    </div>
+  </section>
+
+  <!-- 検索 + 人気キーワード -->
+  <section class="px-4 md:px-6 pt-4 md:pt-6">
+    <div class="max-w-2xl mx-auto flex">
+      <input type="text" placeholder="例) 土屋鞄 / COACH / A4 入るトート / 通勤リュック" class="border rounded-l px-3 md:px-4 py-2.5 md:py-3 flex-1 bg-white text-xs md:text-sm">
+      <button class="bg-rose-500 text-white px-4 md:px-6 py-2.5 md:py-3 rounded-r text-xs md:text-sm font-bold">🔍 検索</button>
+    </div>
+    <div class="max-w-2xl mx-auto mt-2 md:mt-3 flex flex-wrap items-center gap-1.5 md:gap-2 text-[11px] md:text-xs">
+      <span class="text-gray-500">人気:</span>
+      <a href="#" class="bg-rose-50 text-rose-700 px-2 py-0.5 rounded-full">#A4トート</a>
+      <a href="#" class="bg-rose-50 text-rose-700 px-2 py-0.5 rounded-full">#通勤バッグ</a>
+      <a href="#" class="bg-rose-50 text-rose-700 px-2 py-0.5 rounded-full">#軽い</a>
+      <a href="#" class="bg-rose-50 text-rose-700 px-2 py-0.5 rounded-full">#土屋鞄</a>
+      <a href="#" class="bg-rose-50 text-rose-700 px-2 py-0.5 rounded-full">#マザーズバッグ</a>
+    </div>
+  </section>
+
+  <!-- カテゴリタイル -->
+  <section class="px-4 md:px-6 py-6 md:py-8">
+    <h2 class="text-base md:text-xl font-bold mb-3 md:mb-4">カテゴリから探す</h2>
+    <div class="grid grid-cols-3 md:grid-cols-6 gap-2 md:gap-3">
+      <a href="category.html" class="flex flex-col items-center justify-center bg-rose-50 rounded-lg p-3 md:p-4 hover:bg-rose-100">
+        <div class="text-2xl md:text-3xl">🛍</div>
+        <div class="text-xs md:text-sm font-bold mt-1">トート</div>
+        <div class="text-[10px] text-gray-500">1,234</div>
+      </a>
+      <a href="category.html" class="flex flex-col items-center justify-center bg-rose-50 rounded-lg p-3 md:p-4 hover:bg-rose-100">
+        <div class="text-2xl md:text-3xl">👜</div>
+        <div class="text-xs md:text-sm font-bold mt-1">ショルダー</div>
+        <div class="text-[10px] text-gray-500">856</div>
+      </a>
+      <a href="category.html" class="flex flex-col items-center justify-center bg-rose-50 rounded-lg p-3 md:p-4 hover:bg-rose-100">
+        <div class="text-2xl md:text-3xl">🎒</div>
+        <div class="text-xs md:text-sm font-bold mt-1">リュック</div>
+        <div class="text-[10px] text-gray-500">432</div>
+      </a>
+      <a href="category.html" class="flex flex-col items-center justify-center bg-rose-50 rounded-lg p-3 md:p-4 hover:bg-rose-100">
+        <div class="text-2xl md:text-3xl">💼</div>
+        <div class="text-xs md:text-sm font-bold mt-1">ビジネス</div>
+        <div class="text-[10px] text-gray-500">312</div>
+      </a>
+      <a href="category.html" class="flex flex-col items-center justify-center bg-rose-50 rounded-lg p-3 md:p-4 hover:bg-rose-100">
+        <div class="text-2xl md:text-3xl">👛</div>
+        <div class="text-xs md:text-sm font-bold mt-1">ミニ</div>
+        <div class="text-[10px] text-gray-500">178</div>
+      </a>
+      <a href="category.html" class="flex flex-col items-center justify-center bg-rose-50 rounded-lg p-3 md:p-4 hover:bg-rose-100">
+        <div class="text-2xl md:text-3xl">🧳</div>
+        <div class="text-xs md:text-sm font-bold mt-1">旅行</div>
+        <div class="text-[10px] text-gray-500">98</div>
+      </a>
     </div>
   </section>
 
